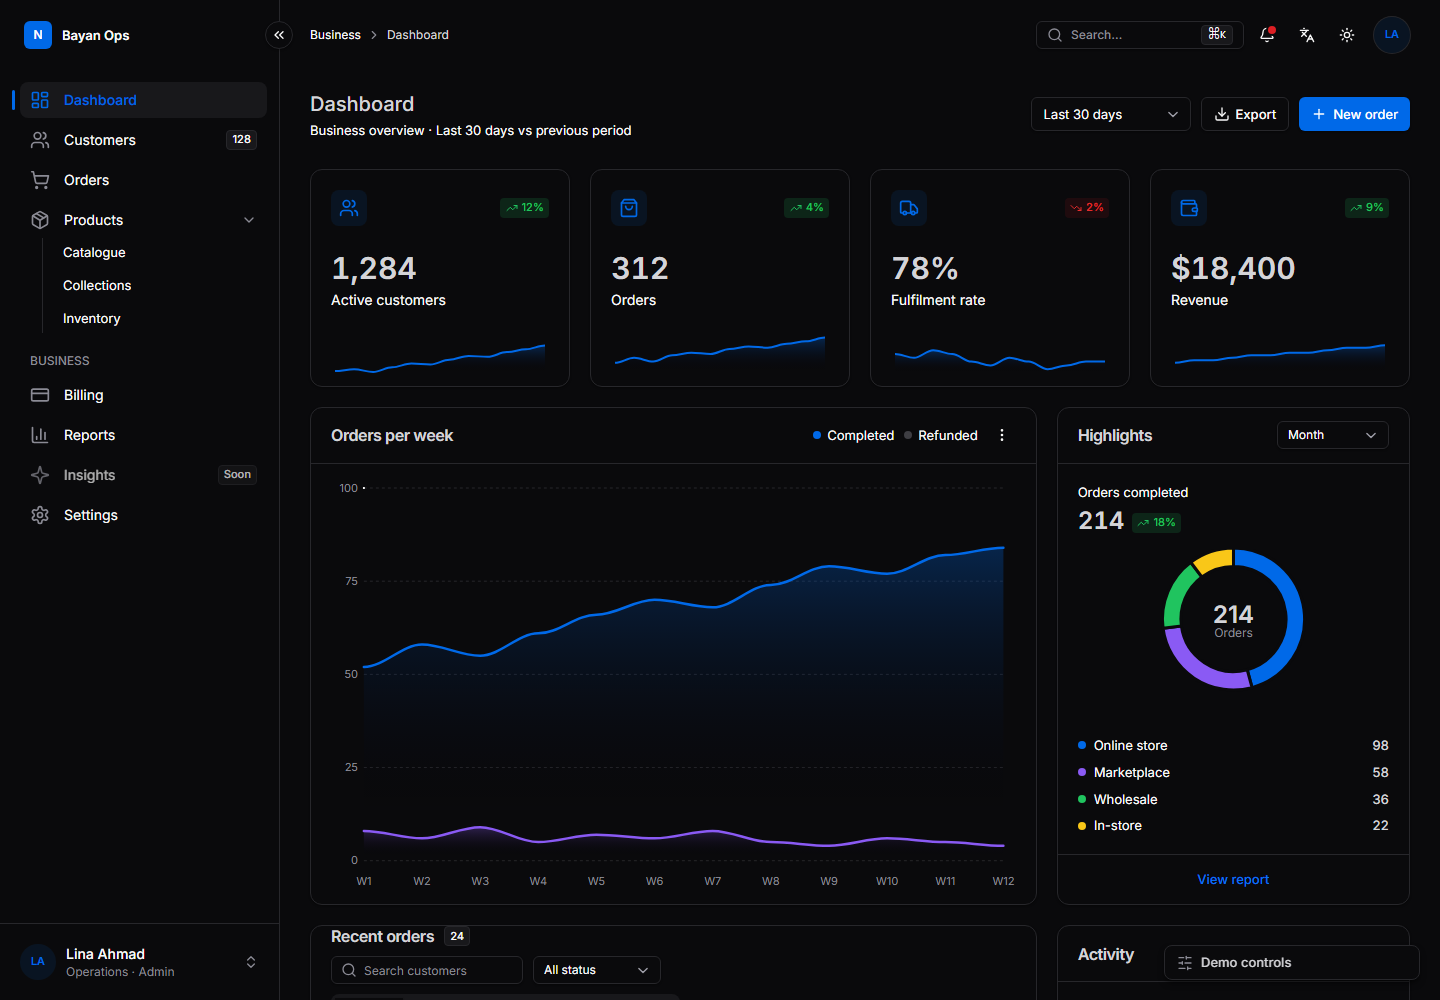
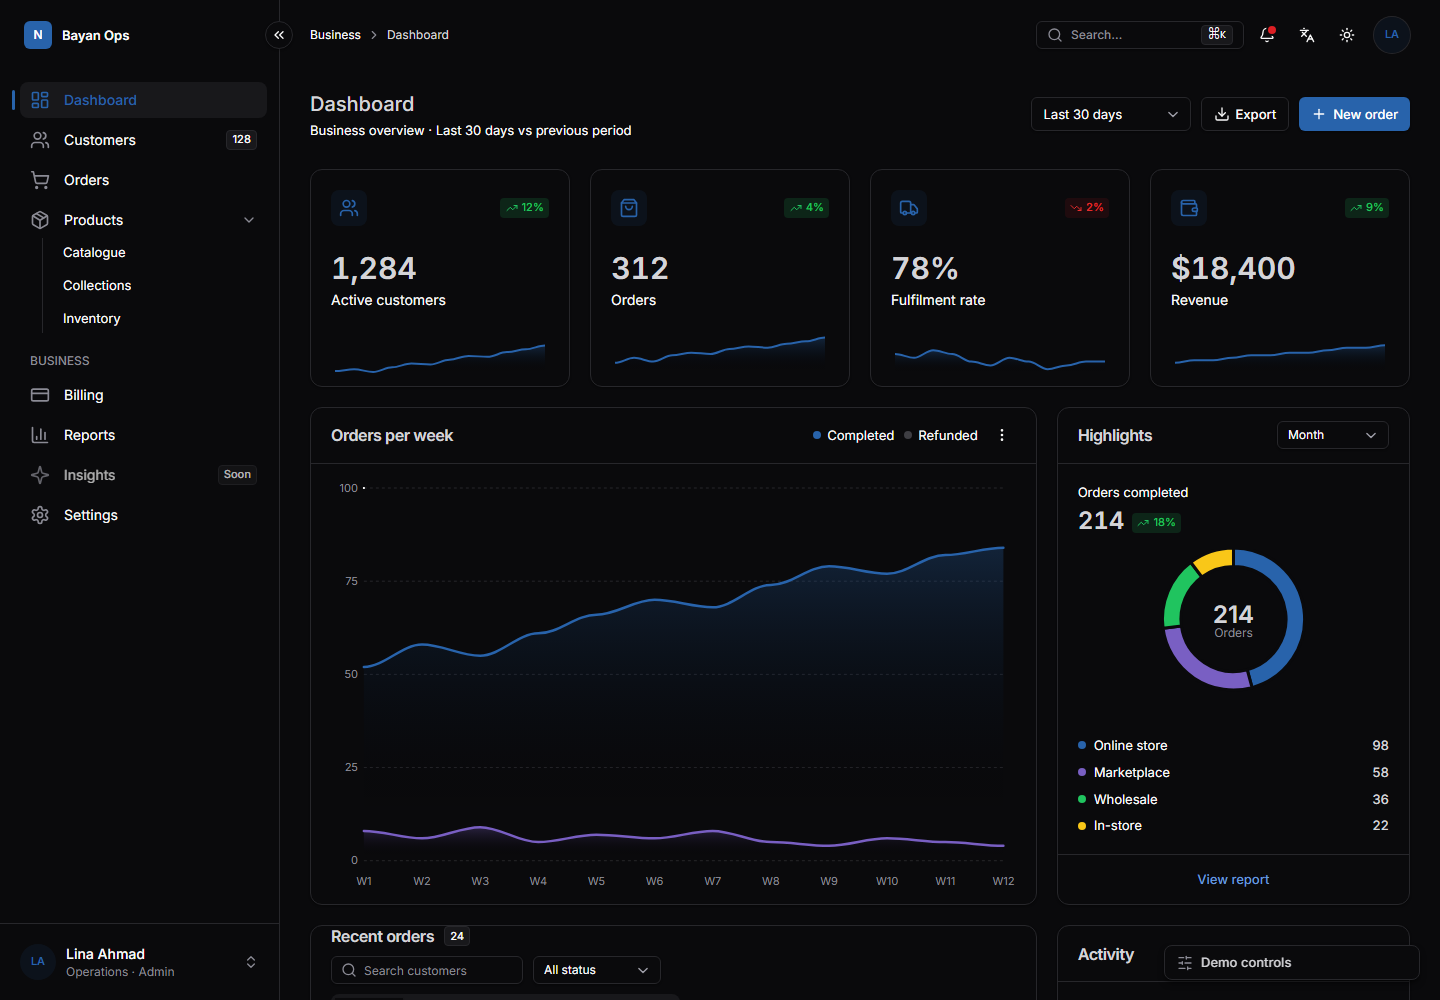
the default palette stops shouting
--primary sat at chroma 0.2 on a white page and 0.21 on near-black, which made it
the loudest object on every screen the system produces. That reads as a template's
accent rather than a chosen one, which is the exact impression this exists to avoid.

It goes deeper and much less saturated, and the dark-mode link colour goes lighter
instead of more saturated -- a dark ground amplifies chroma, not lightness. Nothing
about the roles changes: same hue family, same meaning, same foregrounds, so no
component needs re-mapping. Every pair ends with more contrast than it had, and the
one that was closest to the floor moved furthest: the dark link role 4.53 -> 6.88:1.

--info came down with it. A chroma-0.22 violet, used for a chart series, on a system
whose first rule bans the purple-to-blue gradient by name.

Pre-flight re-checks all 137 ratios across the 16 scopes; the captures are retaken
from the shells by the capture script rather than edited.

diff --git a/skills/jbelly-ui/assets/landing-shell.html b/skills/jbelly-ui/assets/landing-shell.html
@@ -11,7 +11,7 @@
 <script src="https://unpkg.com/lucide@0.469.0/dist/umd/lucide.min.js"></script>
 <style type="text/tailwindcss">
 /* ===== tokens.css (inlined for the single-file demo) ===== */
-:root { --destructive-accent: oklch(57.5% 0.22 27); --primary-accent: oklch(54% 0.2 258);
+:root { --destructive-accent: oklch(57.5% 0.22 27); --primary-accent: oklch(48% 0.13 255);
   color-scheme: light;
   --radius: 0.5rem;
   --font-display: "Inter", ui-sans-serif, system-ui, sans-serif;
@@ -20,7 +20,7 @@
   --background: oklch(100% 0 0); --foreground: oklch(14.5% 0.005 285);
   --card: oklch(100% 0 0); --card-foreground: oklch(14.5% 0.005 285);
   --popover: oklch(100% 0 0); --popover-foreground: oklch(14.5% 0.005 285);
-  --primary: oklch(54% 0.2 258); --primary-foreground: oklch(100% 0 0);
+  --primary: oklch(48% 0.13 255); --primary-foreground: oklch(100% 0 0);
   --secondary: oklch(96.5% 0.002 285); --secondary-foreground: oklch(21% 0.006 285);
   --muted: oklch(96.5% 0.002 285); --muted-foreground: oklch(55% 0.014 285);
   --accent: oklch(96.5% 0.002 285); --accent-foreground: oklch(21% 0.006 285);
@@ -28,7 +28,7 @@
   --destructive: oklch(57.5% 0.22 27); --destructive-foreground: oklch(100% 0 0);
   --success: oklch(72% 0.19 150); --success-foreground: oklch(100% 0 0);
   --warning: oklch(85% 0.17 90); --warning-foreground: oklch(30% 0.05 90);
-  --info: oklch(60% 0.22 293); --info-foreground: oklch(100% 0 0);
+  --info: oklch(56% 0.15 293); --info-foreground: oklch(100% 0 0);
   --border: oklch(94% 0.004 286); --input: oklch(92% 0.004 286); --ring: oklch(71% 0.01 286);
   --sidebar: var(--card); --sidebar-foreground: var(--foreground); --sidebar-muted: var(--muted-foreground);
   --sidebar-accent: var(--accent); --sidebar-accent-foreground: var(--accent-foreground);
@@ -40,12 +40,12 @@
   --chart-2: var(--info); --chart-3: var(--success); --chart-4: var(--warning);
 }
 @media (max-width: 63.99rem) { :root { --header-height: 60px; } }
-.dark { --destructive-accent: oklch(60.25% 0.22 27); --primary-accent: oklch(58.25% 0.21 258);
+.dark { --destructive-accent: oklch(60.25% 0.22 27); --primary-accent: oklch(68% 0.11 255);
   color-scheme: dark;
   --background: oklch(14.5% 0.005 285); --foreground: oklch(98.5% 0 0);
   --card: oklch(14.5% 0.005 285); --card-foreground: oklch(98.5% 0 0);
   --popover: oklch(14.5% 0.005 285); --popover-foreground: oklch(98.5% 0 0);
-  --primary: oklch(55% 0.21 258);
+  --primary: oklch(50% 0.13 255);
   --secondary: oklch(27.5% 0.006 286); --secondary-foreground: oklch(98.5% 0 0);
   --muted: oklch(21% 0.006 285); --muted-foreground: oklch(64% 0.014 285);
   --accent: oklch(21% 0.006 285); --accent-foreground: oklch(98.5% 0 0);

diff --git a/skills/jbelly-ui/assets/pricing-shell.html b/skills/jbelly-ui/assets/pricing-shell.html
@@ -10,7 +10,7 @@
 <script src="https://unpkg.com/lucide@0.469.0/dist/umd/lucide.min.js"></script>
 <style type="text/tailwindcss">
 /* ===== tokens.css (inlined for the single-file demo) ===== */
-:root { --destructive-accent: oklch(57.5% 0.22 27); --primary-accent: oklch(54% 0.2 258);
+:root { --destructive-accent: oklch(57.5% 0.22 27); --primary-accent: oklch(48% 0.13 255);
   color-scheme: light;
   --radius: 0.5rem;
   --font-display: "Inter", ui-sans-serif, system-ui, sans-serif;
@@ -19,7 +19,7 @@
   --background: oklch(100% 0 0); --foreground: oklch(14.5% 0.005 285);
   --card: oklch(100% 0 0); --card-foreground: oklch(14.5% 0.005 285);
   --popover: oklch(100% 0 0); --popover-foreground: oklch(14.5% 0.005 285);
-  --primary: oklch(54% 0.2 258); --primary-foreground: oklch(100% 0 0);
+  --primary: oklch(48% 0.13 255); --primary-foreground: oklch(100% 0 0);
   --secondary: oklch(96.5% 0.002 285); --secondary-foreground: oklch(21% 0.006 285);
   --muted: oklch(96.5% 0.002 285); --muted-foreground: oklch(55% 0.014 285);
   --accent: oklch(96.5% 0.002 285); --accent-foreground: oklch(21% 0.006 285);
@@ -27,7 +27,7 @@
   --destructive: oklch(57.5% 0.22 27); --destructive-foreground: oklch(100% 0 0);
   --success: oklch(72% 0.19 150); --success-foreground: oklch(100% 0 0);
   --warning: oklch(85% 0.17 90); --warning-foreground: oklch(30% 0.05 90);
-  --info: oklch(60% 0.22 293); --info-foreground: oklch(100% 0 0);
+  --info: oklch(56% 0.15 293); --info-foreground: oklch(100% 0 0);
   --border: oklch(94% 0.004 286); --input: oklch(92% 0.004 286); --ring: oklch(71% 0.01 286);
   --sidebar: var(--card); --sidebar-foreground: var(--foreground); --sidebar-muted: var(--muted-foreground);
   --sidebar-accent: var(--accent); --sidebar-accent-foreground: var(--accent-foreground);
@@ -39,12 +39,12 @@
   --chart-2: var(--info); --chart-3: var(--success); --chart-4: var(--warning);
 }
 @media (max-width: 63.99rem) { :root { --header-height: 60px; } }
-.dark { --destructive-accent: oklch(60.25% 0.22 27); --primary-accent: oklch(58.25% 0.21 258);
+.dark { --destructive-accent: oklch(60.25% 0.22 27); --primary-accent: oklch(68% 0.11 255);
   color-scheme: dark;
   --background: oklch(14.5% 0.005 285); --foreground: oklch(98.5% 0 0);
   --card: oklch(14.5% 0.005 285); --card-foreground: oklch(98.5% 0 0);
   --popover: oklch(14.5% 0.005 285); --popover-foreground: oklch(98.5% 0 0);
-  --primary: oklch(55% 0.21 258);
+  --primary: oklch(50% 0.13 255);
   --secondary: oklch(27.5% 0.006 286); --secondary-foreground: oklch(98.5% 0 0);
   --muted: oklch(21% 0.006 285); --muted-foreground: oklch(64% 0.014 285);
   --accent: oklch(21% 0.006 285); --accent-foreground: oklch(98.5% 0 0);

diff --git a/skills/jbelly-ui/assets/commerce-shell.html b/skills/jbelly-ui/assets/commerce-shell.html
@@ -19,7 +19,7 @@
   --background: oklch(98.2% 0 0); --foreground: oklch(14.5% 0.005 285);
   --card: oklch(100% 0 0); --card-foreground: oklch(14.5% 0.005 285);
   --popover: oklch(100% 0 0); --popover-foreground: oklch(14.5% 0.005 285);
-  --primary: oklch(54% 0.2 258); --primary-accent: oklch(54% 0.2 258); --primary-foreground: oklch(100% 0 0);
+  --primary: oklch(48% 0.13 255); --primary-accent: oklch(48% 0.13 255); --primary-foreground: oklch(100% 0 0);
   --secondary: oklch(96.5% 0.002 285); --secondary-foreground: oklch(21% 0.006 285);
   --muted: oklch(96.5% 0.002 285); --muted-foreground: oklch(55% 0.014 285);
   --accent: oklch(96.5% 0.002 285); --accent-foreground: oklch(21% 0.006 285);
@@ -27,7 +27,7 @@
   --destructive: oklch(57.5% 0.22 27); --destructive-foreground: oklch(100% 0 0); --destructive-accent: oklch(46% 0.2 27);
   --success: oklch(72% 0.19 150); --success-foreground: oklch(100% 0 0); --success-accent: oklch(45% 0.15 150);
   --warning: oklch(85% 0.17 90); --warning-foreground: oklch(30% 0.05 90); --warning-accent: oklch(44% 0.1 75);
-  --info: oklch(60% 0.22 293); --info-foreground: oklch(100% 0 0);
+  --info: oklch(56% 0.15 293); --info-foreground: oklch(100% 0 0);
   --border: oklch(88% 0.004 286); --input: oklch(64% 0.008 286); --ring: oklch(55% 0.01 286);
   /* merchandise tones: what the goods are, not what the interface is. They never flip with the theme. */
   --tone-slate: oklch(26% 0.012 265); --tone-moss: oklch(52% 0.11 148); --tone-clay: oklch(68% 0.13 62);
@@ -43,12 +43,12 @@
   --chart-2: var(--info); --chart-3: var(--success); --chart-4: var(--warning);
 }
 @media (max-width: 63.99rem) { :root { --header-height: 60px; } }
-.dark { --primary-accent: oklch(58.25% 0.21 258);
+.dark { --primary-accent: oklch(68% 0.11 255);
   color-scheme: dark;
   --background: oklch(14.5% 0.005 285); --foreground: oklch(98.5% 0 0);
   --card: oklch(14.5% 0.005 285); --card-foreground: oklch(98.5% 0 0);
   --popover: oklch(14.5% 0.005 285); --popover-foreground: oklch(98.5% 0 0);
-  --primary: oklch(55% 0.21 258);
+  --primary: oklch(50% 0.13 255);
   --secondary: oklch(27.5% 0.006 286); --secondary-foreground: oklch(98.5% 0 0);
   --muted: oklch(21% 0.006 285); --muted-foreground: oklch(64% 0.014 285);
   --accent: oklch(21% 0.006 285); --accent-foreground: oklch(98.5% 0 0);

diff --git a/skills/jbelly-ui/assets/app-shell.html b/skills/jbelly-ui/assets/app-shell.html
@@ -20,7 +20,7 @@
   --background: oklch(100% 0 0); --foreground: oklch(14.5% 0.005 285);
   --card: oklch(100% 0 0); --card-foreground: oklch(14.5% 0.005 285);
   --popover: oklch(100% 0 0); --popover-foreground: oklch(14.5% 0.005 285);
-  --primary: oklch(54% 0.2 258); --primary-accent: oklch(54% 0.2 258); --primary-foreground: oklch(100% 0 0);
+  --primary: oklch(48% 0.13 255); --primary-accent: oklch(48% 0.13 255); --primary-foreground: oklch(100% 0 0);
   --secondary: oklch(96.5% 0.002 285); --secondary-foreground: oklch(21% 0.006 285);
   --muted: oklch(96.5% 0.002 285); --muted-foreground: oklch(55% 0.014 285);
   --accent: oklch(96.5% 0.002 285); --accent-foreground: oklch(21% 0.006 285);
@@ -28,7 +28,7 @@
   --destructive: oklch(57.5% 0.22 27); --destructive-foreground: oklch(100% 0 0);
   --success: oklch(72% 0.19 150); --success-foreground: oklch(100% 0 0);
   --warning: oklch(85% 0.17 90); --warning-foreground: oklch(30% 0.05 90);
-  --info: oklch(60% 0.22 293); --info-foreground: oklch(100% 0 0);
+  --info: oklch(56% 0.15 293); --info-foreground: oklch(100% 0 0);
   --border: oklch(94% 0.004 286); --input: oklch(92% 0.004 286); --ring: oklch(71% 0.01 286);
   --sidebar: var(--card); --sidebar-foreground: var(--foreground); --sidebar-muted: var(--muted-foreground);
   --sidebar-accent: var(--accent); --sidebar-accent-foreground: var(--accent-foreground);
@@ -40,12 +40,12 @@
   --chart-2: var(--info); --chart-3: var(--success); --chart-4: var(--warning);
 }
 @media (max-width: 63.99rem) { :root { --header-height: 60px; } }
-.dark { --destructive-accent: oklch(60.25% 0.22 27); --primary-accent: oklch(58.25% 0.21 258);
+.dark { --destructive-accent: oklch(60.25% 0.22 27); --primary-accent: oklch(68% 0.11 255);
   color-scheme: dark;
   --background: oklch(14.5% 0.005 285); --foreground: oklch(98.5% 0 0);
   --card: oklch(14.5% 0.005 285); --card-foreground: oklch(98.5% 0 0);
   --popover: oklch(14.5% 0.005 285); --popover-foreground: oklch(98.5% 0 0);
-  --primary: oklch(55% 0.21 258);
+  --primary: oklch(50% 0.13 255);
   --secondary: oklch(27.5% 0.006 286); --secondary-foreground: oklch(98.5% 0 0);
   --muted: oklch(21% 0.006 285); --muted-foreground: oklch(64% 0.014 285);
   --accent: oklch(21% 0.006 285); --accent-foreground: oklch(98.5% 0 0);

diff --git a/skills/jbelly-ui/references/tokens.css b/skills/jbelly-ui/references/tokens.css
@@ -33,9 +33,9 @@
   --popover-foreground: oklch(14.5% 0.005 285);
 
   /* brand — the one colour that carries identity */
-  --primary: oklch(54% 0.2 258);
+  --primary: oklch(48% 0.13 255);
   /* the brand colour as text: a link has to be readable on the surface, which a fill does not */
-  --primary-accent: oklch(54% 0.2 258);
+  --primary-accent: oklch(48% 0.13 255);
   --primary-foreground: oklch(100% 0 0);
 
   /* neutrals */
@@ -55,7 +55,7 @@
   --success-foreground: oklch(100% 0 0);
   --warning: oklch(85% 0.17 90);
   --warning-foreground: oklch(30% 0.05 90);   /* dark text: white on amber fails contrast */
-  --info: oklch(60% 0.22 293);
+  --info: oklch(56% 0.15 293);
   --info-foreground: oklch(100% 0 0);
 
   /* lines + focus */
@@ -86,7 +86,7 @@
   :root { --header-height: 60px; }
 }
 
-.dark { --destructive-accent: oklch(60.25% 0.22 27); --primary-accent: oklch(59% 0.21 258);
+.dark { --destructive-accent: oklch(60.25% 0.22 27); --primary-accent: oklch(68% 0.11 255);
   color-scheme: dark;
 
   --background: oklch(14.5% 0.005 285);
@@ -96,7 +96,7 @@
   --popover: oklch(14.5% 0.005 285);
   --popover-foreground: oklch(98.5% 0 0);
 
-  --primary: oklch(55% 0.21 258);
+  --primary: oklch(50% 0.13 255);
   --primary-foreground: oklch(100% 0 0);
 
   --secondary: oklch(27.5% 0.006 286);
@@ -127,7 +127,7 @@
   --sidebar-muted: oklch(55% 0.014 285);
   --sidebar-accent: oklch(21% 0.006 285);
   --sidebar-accent-foreground: oklch(98.5% 0 0);
-  --sidebar-primary: oklch(70% 0.16 255);
+  --sidebar-primary: oklch(70% 0.11 255);
   --sidebar-border: oklch(27.5% 0.006 286);
 }
 

diff --git a/dist/jbelly-ui-prompt.md b/dist/jbelly-ui-prompt.md
@@ -31,9 +31,9 @@ Output complete HTML with Tailwind v4 (`<script src="https://cdn.jsdelivr.net/np
   --popover-foreground: oklch(14.5% 0.005 285);
 
   /* brand — the one colour that carries identity */
-  --primary: oklch(54% 0.2 258);
+  --primary: oklch(48% 0.13 255);
   /* the brand colour as text: a link has to be readable on the surface, which a fill does not */
-  --primary-accent: oklch(54% 0.2 258);
+  --primary-accent: oklch(48% 0.13 255);
   --primary-foreground: oklch(100% 0 0);
 
   /* neutrals */
@@ -53,7 +53,7 @@ Output complete HTML with Tailwind v4 (`<script src="https://cdn.jsdelivr.net/np
   --success-foreground: oklch(100% 0 0);
   --warning: oklch(85% 0.17 90);
   --warning-foreground: oklch(30% 0.05 90);   /* dark text: white on amber fails contrast */
-  --info: oklch(60% 0.22 293);
+  --info: oklch(56% 0.15 293);
   --info-foreground: oklch(100% 0 0);
 
   /* lines + focus */
@@ -84,7 +84,7 @@ Output complete HTML with Tailwind v4 (`<script src="https://cdn.jsdelivr.net/np
   :root { --header-height: 60px; }
 }
 
-.dark { --destructive-accent: oklch(60.25% 0.22 27); --primary-accent: oklch(59% 0.21 258);
+.dark { --destructive-accent: oklch(60.25% 0.22 27); --primary-accent: oklch(68% 0.11 255);
   color-scheme: dark;
 
   --background: oklch(14.5% 0.005 285);
@@ -94,7 +94,7 @@ Output complete HTML with Tailwind v4 (`<script src="https://cdn.jsdelivr.net/np
   --popover: oklch(14.5% 0.005 285);
   --popover-foreground: oklch(98.5% 0 0);
 
-  --primary: oklch(55% 0.21 258);
+  --primary: oklch(50% 0.13 255);
   --primary-foreground: oklch(100% 0 0);
 
   --secondary: oklch(27.5% 0.006 286);
